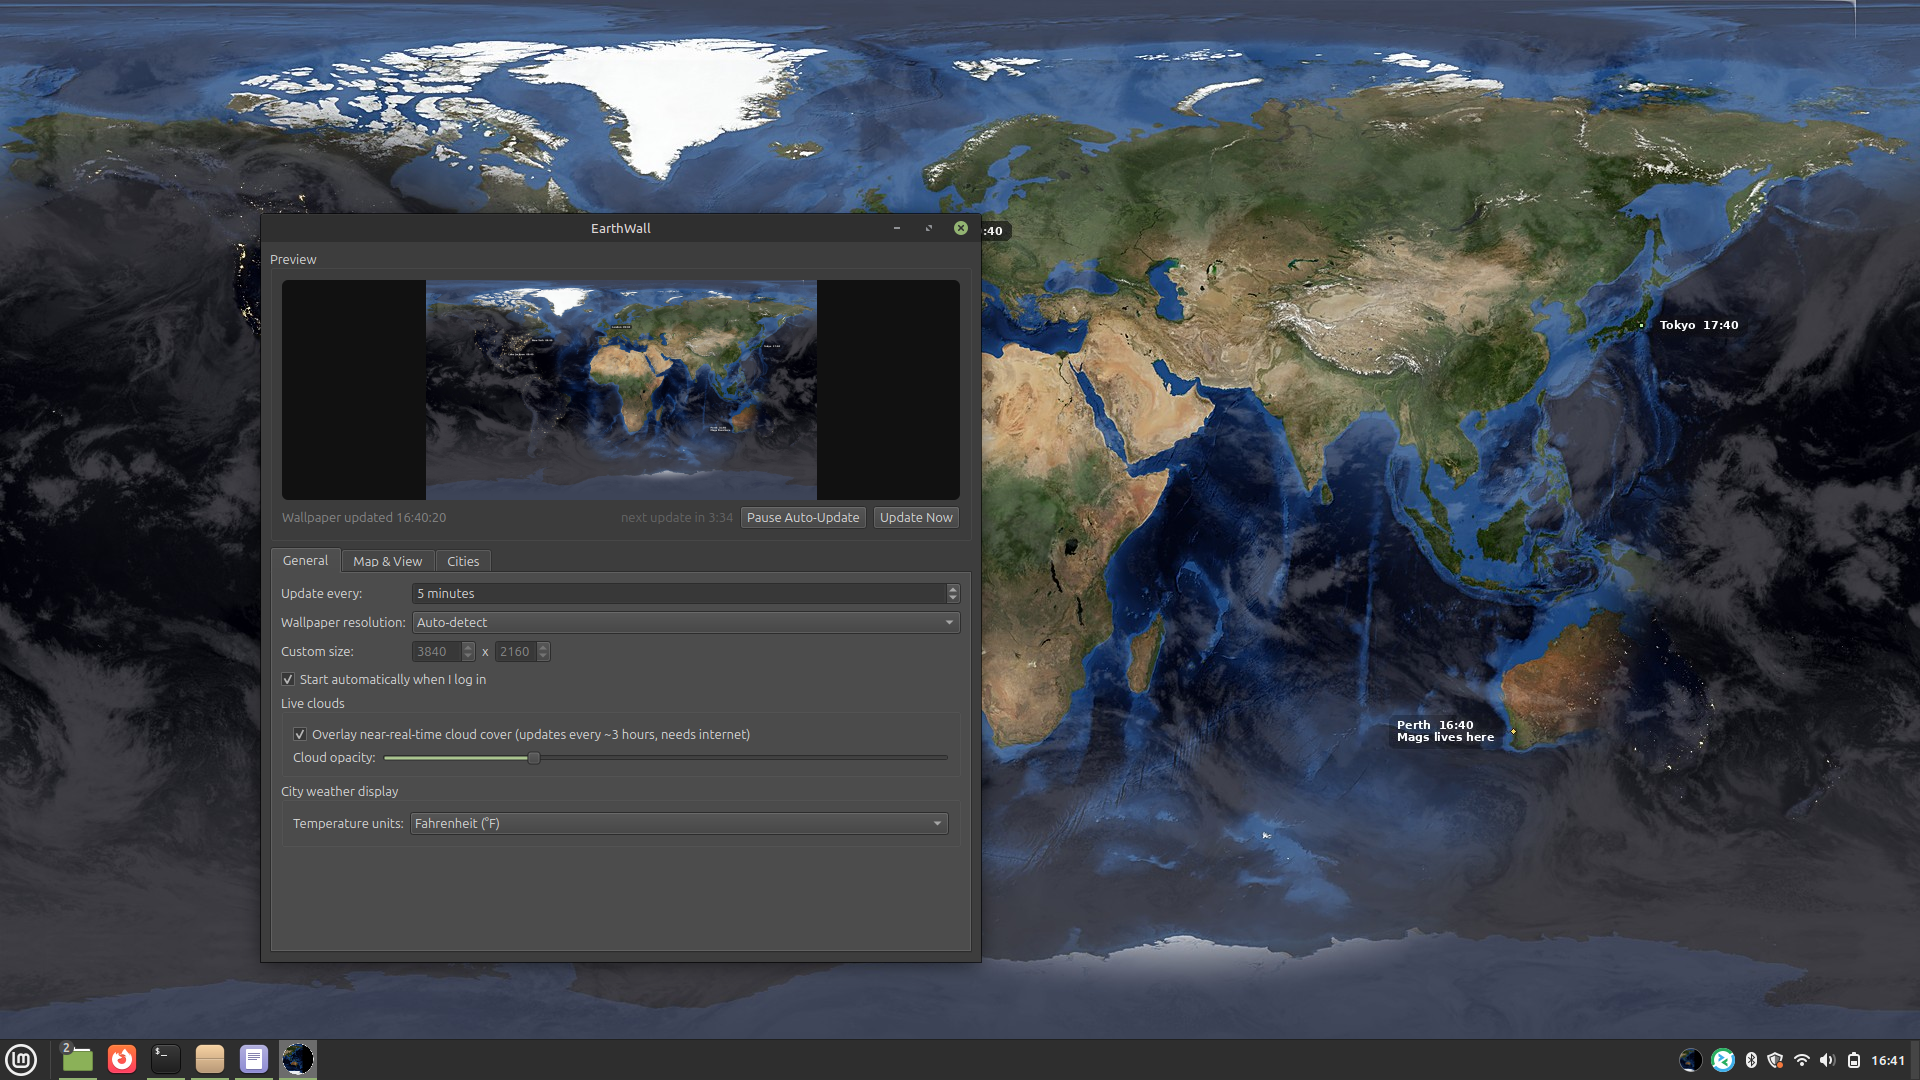
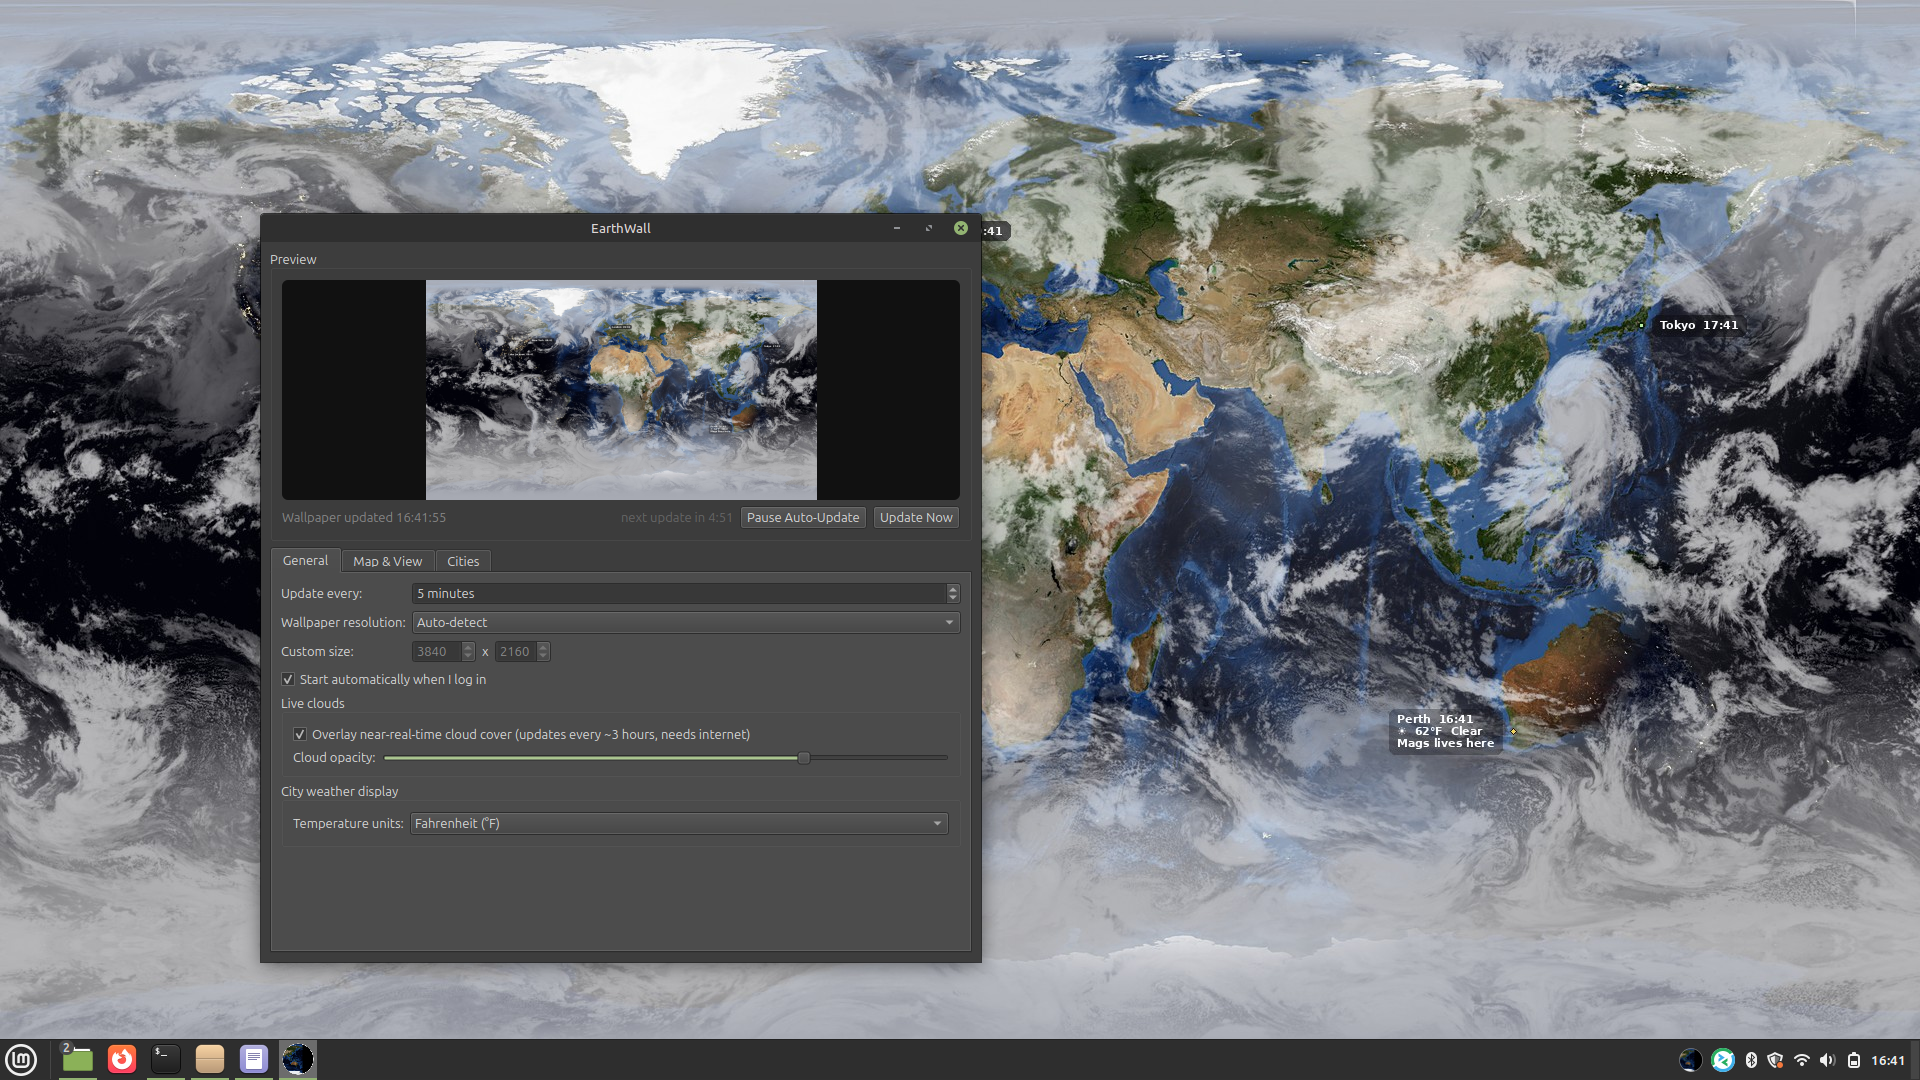
Screen Shots
Screenshots + readme

diff --git a/README.md b/README.md
@@ -20,12 +20,15 @@ NASA Blue Marble / Black Marble imagery.
 ### Application interface
 
 **General tab**
+
 ![General tab](assets/screenshots/SS-General.jpg)
 
 **Map & Views tab**
+
 ![Map & Views tab](assets/screenshots/SS-Map-Views.jpg)
 
 **Cities tab**
+
 ![Cities tab](assets/screenshots/SS-Cities.jpg)
 
 ## What's in the GUI